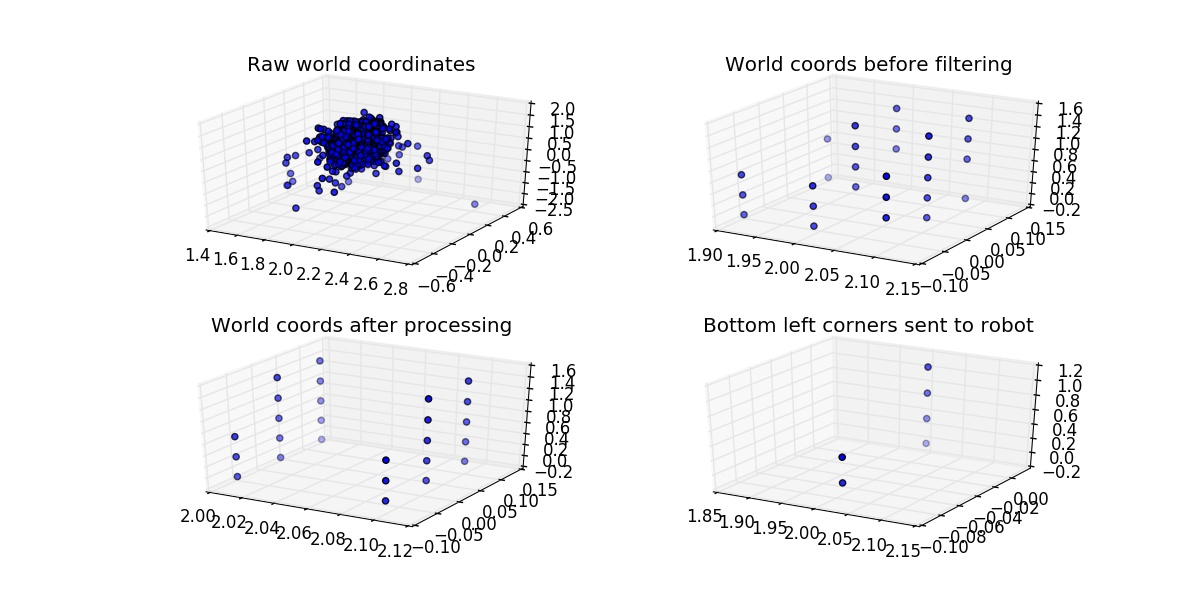
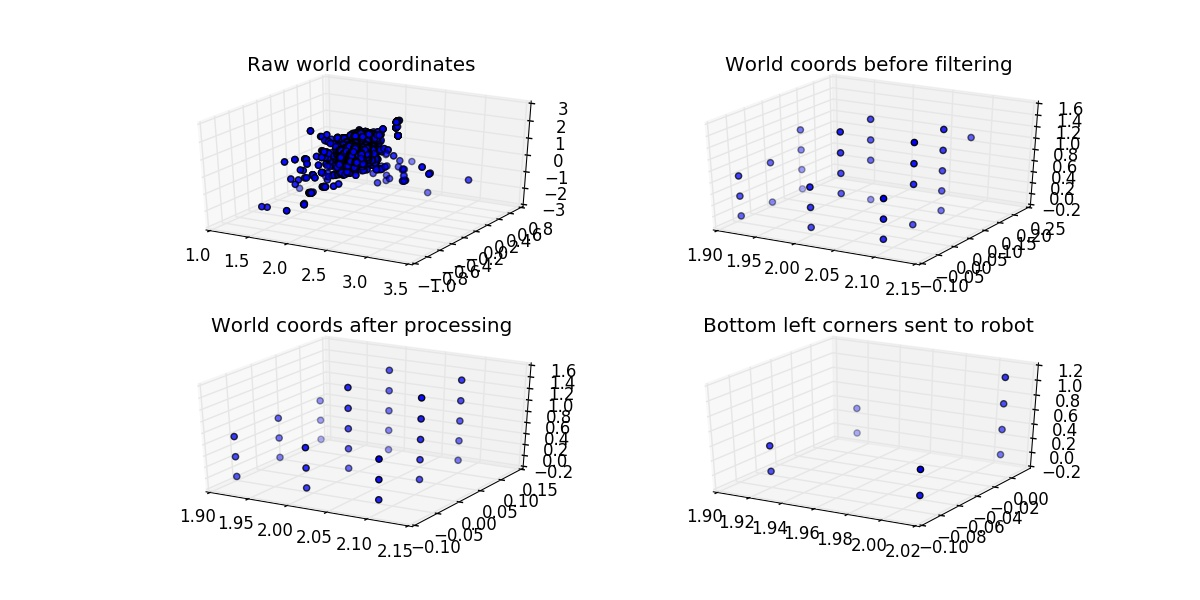
using corner detection to find corners instead of orb feature detection

diff --git a/src/generate_schematic/src/feature_detect.py b/src/generate_schematic/src/feature_detect.py
@@ -25,6 +25,24 @@ class FeatureDetect:
             A list of all of the corner positions that can be recovered from the two input images.
 
         """
-        kp1, des1 = orb.detectAndCompute(camera1.image, None)
-        kp2, des2 = orb.detectAndCompute(camera2.image, None)
+        kp1, des1 = FeatureDetect.get_corners_harris(camera1.image)
+        kp2, des2 = FeatureDetect.get_corners_harris(camera2.image)
         return ImageMatching.match_2_cameras_images(camera1, camera2, kp1, des1, kp2, des2, epipolar_threshold=epipolar_threshold)
+
+    @staticmethod
+    def get_corners_harris(img, blocksize=5, sobel_constant=7, threshold=0.01):
+        indices = []
+        for i in range(img.shape[2]):
+            dst = cv2.cornerHarris(img[:, :, i], blocksize, sobel_constant, threshold)
+            potential_indices = np.argwhere(dst > (0.01 * dst.max()))
+            if len(potential_indices) > 0:
+                indices.append(potential_indices)
+        indices = np.vstack(indices)
+        indices = np.hstack((indices[:, 1:2], indices[:, 0:1]))
+
+        kp = np.hstack((indices, np.ones((len(indices), 1)) * blocksize))
+        kp = [cv2.KeyPoint(*p) for p in kp]
+
+        kp, des = orb.compute(img, kp)
+
+        return kp, des

diff --git a/src/generate_schematic/src/image_matching.py b/src/generate_schematic/src/image_matching.py
@@ -6,9 +6,10 @@ from mpl_toolkits.mplot3d import Axes3D
 import matplotlib.pyplot as plt
 
 from global_constants.camera import CameraDTO
+from global_constants import utils as gutils
 
 
-bf = cv2.BFMatcher(cv2.NORM_HAMMING, crossCheck=True)
+bf = cv2.BFMatcher(cv2.NORM_HAMMING)
 
 
 class ImageMatching:
@@ -65,6 +66,18 @@ class ImageMatching:
         img3 = cv2.drawMatches(image1, keypoints1, image2, keypoints2, matches, None, flags=2)
         plt.imshow(img3)
         plt.show()
+
+    @staticmethod
+    def draw_points(image, points, color=(255, 0, 0), save_name=None, display=True):
+        image = image.copy()
+        for px, py in points:
+            u, v = int(px), int(py)
+            image = cv2.circle(image, (u, v), radius=3, color=color, thickness=-1)
+        plt.imshow(image)
+        if save_name is not None:
+            gutils.save_image(image, save_name)
+        if display:
+            plt.show()
 
     # Helpers--------------------------------------------------------------------------------------
 

diff --git a/src/generate_schematic/src/generate_schematic.py b/src/generate_schematic/src/generate_schematic.py
@@ -144,9 +144,8 @@ class GenerateSchematic:
     @staticmethod
     def get_raw_world_coordinates_for_pair(n1, n2, epipolar_threshold=0.01):
         camera1, camera2 = CameraDTO(n1), CameraDTO(n2)
-        camera2_coordinates = FeatureDetect.find_all_corners_3d(camera1, camera2, epipolar_threshold=epipolar_threshold).T
+        camera2_coordinates = FeatureDetect.find_all_corners_3d(camera1, camera2, epipolar_threshold=epipolar_threshold)
         g02 = CameraDTO.get_g(camera2.pose)
-        camera2_coordinates = camera2_coordinates.T
         world_coordinates = ImageMatching.apply_transform(ImageMatching.lift(camera2_coordinates), g02)[:, :3]
         return world_coordinates
 
